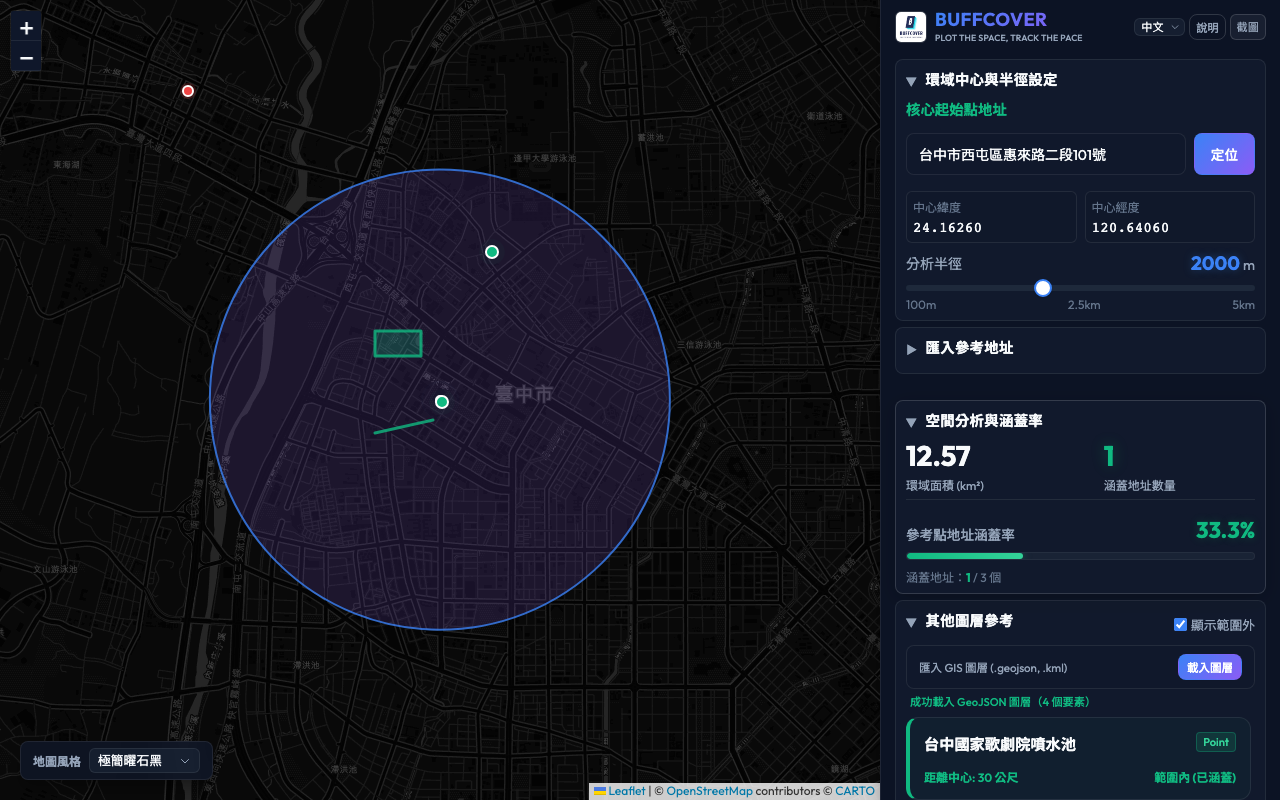
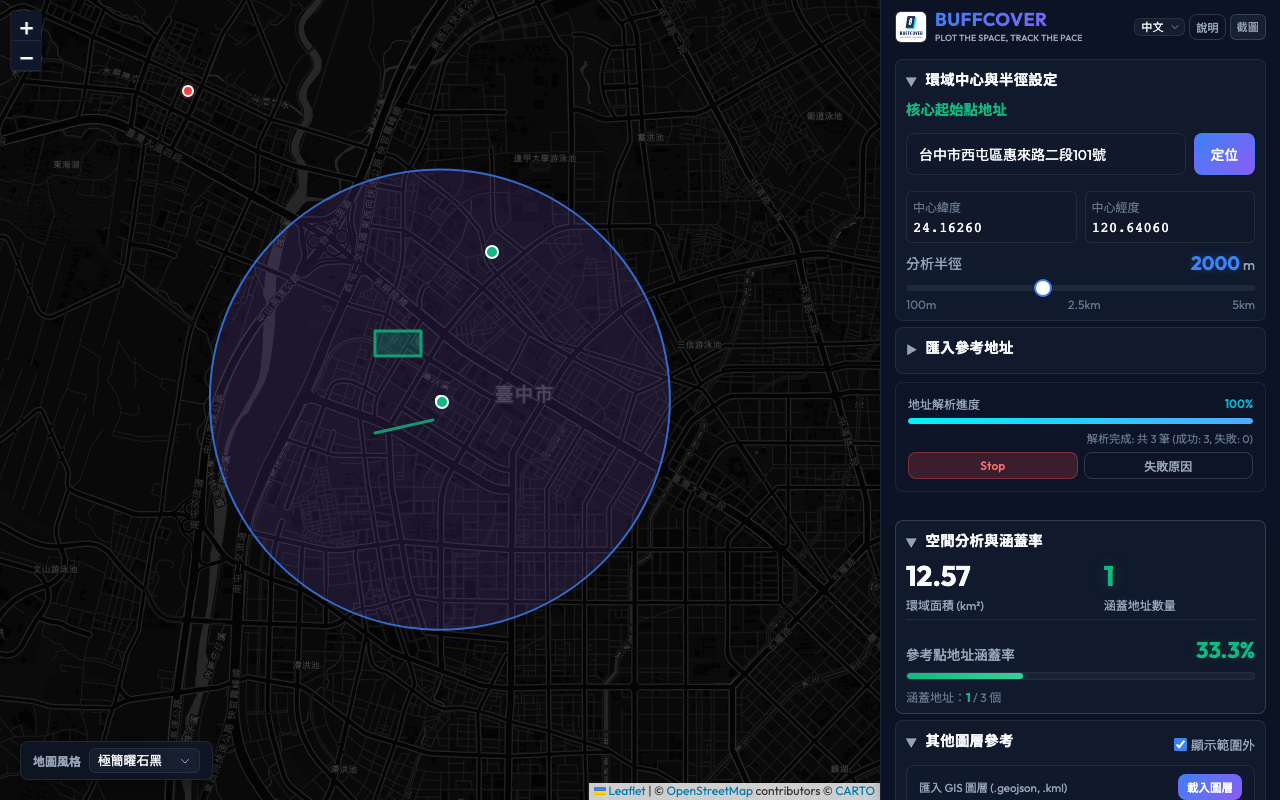
Update

diff --git a/index.html b/index.html
@@ -18,7 +18,7 @@
     <script src="https://cdn.jsdelivr.net/npm/html2canvas@1.4.1/dist/html2canvas.min.js"></script>
     
     <!-- 自訂 CSS -->
-    <link rel="stylesheet" href="./assets/style.css">
+    <link rel="stylesheet" href="./assets/css/style.css">
     
     <!-- 引入 TGOS MAP API (Lite) -->
     <script type="text/javascript" src="https://api.tgos.tw/TGOS_API/tgos?ver=2&AppID=x+JLVSx85Lk=&APIKey=in8W74q0ogpcfW/STwicK8D5QwCdddJf05/7nb+OtDh8R99YN3T0LurV4xato3TpL/fOfylvJ9Wv/khZEsXEWxsBmg+GEj4AuokiNXCh14Rei21U5GtJpIkO++Mq3AguFK/ISDEWn4hMzqgrkxNe1Q==" charset="utf-8"></script>
@@ -48,7 +48,7 @@
                 <div class="brand" style="display: flex; width: 100%; align-items: center; justify-content: space-between; gap: 6px;">
                     <div class="logo-group" style="display: flex; align-items: center; gap: 8px;">
                         <!-- 產品 Logo 圖片 -->
-                        <img src="./assets/Buffcover.jpg" alt="BuffCover Logo" style="width: 32px; height: 32px; border-radius: 6px; object-fit: cover; border: 1.5px solid rgba(255, 255, 255, 0.15);">
+                        <img src="./assets/images/Buffcover.jpg" alt="BuffCover Logo" style="width: 32px; height: 32px; border-radius: 6px; object-fit: cover; border: 1.5px solid rgba(255, 255, 255, 0.15);">
                         <div class="logo-text-group" style="display: flex; flex-direction: column;">
                             <span class="brand-text" data-i18n="brand_title" style="font-size: 1.15rem; font-weight: 800; line-height: 1.1; letter-spacing: 0.02em;">BuffCover</span>
                             <span class="slogan-text" style="font-size: 0.55rem; color: var(--text-secondary); letter-spacing: 0.02em; margin-top: 2px; font-weight: 500; text-transform: uppercase;">Plot the space, track the pace</span>
@@ -145,22 +145,23 @@
                         </div>
                     </details>
                     
-                    <!-- 地址解析佇列進度條 -->
-                    <div id="parse-progress-container" class="parse-progress-container" style="margin-top: 8px; display: none;">
-                        <div class="progress-info-row">
-                            <span class="progress-label" data-i18n="progress_bar_title">地址解析進度</span>
-                            <span id="parse-progress-val" class="progress-val">0%</span>
-                        </div>
-                        <div class="progress-bar-bg">
-                            <div id="parse-progress-fill" class="progress-bar-fill-cyan" style="width: 0%"></div>
-                        </div>
-                        <div id="parse-progress-detail" class="progress-detail"></div>
-                        <div class="progress-action-row" style="display: flex; gap: 6px; margin-top: 6px;">
-                            <button id="stop-parse-btn" class="secondary-btn" style="flex: 1; margin: 0; padding: 4px 6px; font-size: 0.75rem; background: rgba(239, 68, 68, 0.2); border-color: rgba(239, 68, 68, 0.4); color: #F87171;">Stop</button>
-                            <button id="fail-reason-btn" class="outline-btn" data-i18n="fail_reason_btn" style="flex: 1; margin: 0; padding: 4px 6px; font-size: 0.75rem;">失敗原因</button>
-                        </div>
-                    </div>
                 </details>
+                
+                <!-- 地址解析佇列進度條 -->
+                <div id="parse-progress-container" class="parse-progress-container" style="margin-top: 8px; margin-bottom: 8px; display: none;">
+                    <div class="progress-info-row">
+                        <span class="progress-label" data-i18n="progress_bar_title">地址解析進度</span>
+                        <span id="parse-progress-val" class="progress-val">0%</span>
+                    </div>
+                    <div class="progress-bar-bg">
+                        <div id="parse-progress-fill" class="progress-bar-fill-cyan" style="width: 0%"></div>
+                    </div>
+                    <div id="parse-progress-detail" class="progress-detail"></div>
+                    <div class="progress-action-row" style="display: flex; gap: 6px; margin-top: 6px;">
+                        <button id="stop-parse-btn" class="secondary-btn" style="flex: 1; margin: 0; padding: 4px 6px; font-size: 0.75rem; background: rgba(239, 68, 68, 0.2); border-color: rgba(239, 68, 68, 0.4); color: #F87171;">Stop</button>
+                        <button id="fail-reason-btn" class="outline-btn" data-i18n="fail_reason_btn" style="flex: 1; margin: 0; padding: 4px 6px; font-size: 0.75rem;">失敗原因</button>
+                    </div>
+                </div>
             </section>
             
             <!-- 統計摘要與涵蓋率 -->
@@ -348,6 +349,6 @@
     <script src="https://cdn.jsdelivr.net/npm/leaflet@1.9.4/dist/leaflet.js"></script>
     
     <!-- 自訂 JS -->
-    <script type="module" src="./assets/app.js"></script>
+    <script type="module" src="./assets/js/app.js"></script>
 </body>
 </html>

diff --git a/README.md b/README.md
@@ -37,16 +37,19 @@ BuffCover/
 ├── scripts/
 │   └── screenshot.py      # 自動化測試與網頁截圖腳本 (基於 Playwright)
 └── assets/                # 前端靜態資源目錄
-    ├── Buffcover.jpg      # 複製之 Logo 圖片 (供前端直接引用)
     ├── index.html         # 網頁結構檔案 (引入 Leaflet CDN 與前端模組)
-    ├── style.css          # CSS 樣式表 (包含發光動畫、自訂折疊箭頭與翡翠綠標籤)
-    ├── app.js             # 前端控制主邏輯 (處理 DOM 事件與流程控制)
-    ├── config.js          # 全域配置常數 (預設座標與地標清單)
-    ├── storage.js         # 本地 localStorage 快取管理 (記住環域半徑與中心點)
-    ├── parser.js          # Markdown 檔案解析器 (正規表達式地址智慧提取)
-    ├── api.js             # 後端 API 與前端 Fallback 退化定位模組
-    ├── map.js             # Leaflet 地圖操作與向量要素 (GeoJSON, KML) 渲染模組
-    └── geocodingdispatcher.js # 核心調度器 (IndexedDB 雙層快取與併發 3 限制)
+    ├── css/               # 樣式表目錄
+    │   └── style.css      # CSS 樣式表 (包含發光動畫、自訂折疊箭頭與翡翠綠標籤)
+    ├── images/            # 圖片資源目錄
+    │   └── Buffcover.jpg  # 複製之 Logo 圖片 (供前端直接引用)
+    └── js/                # JavaScript 程式碼目錄
+        ├── app.js         # 前端控制主邏輯 (處理 DOM 事件與流程控制)
+        ├── config.js      # 全域配置常數 (預設座標與地標清單)
+        ├── storage.js     # 本地 localStorage 快取管理 (記住環域半徑與中心點)
+        ├── parser.js      # Markdown 檔案解析器 (正規表達式地址智慧提取)
+        ├── api.js         # 後端 API 與前端 Fallback 退化定位模組
+        ├── map.js         # Leaflet 地圖操作與向量要素 (GeoJSON, KML) 渲染模組
+        └── geocodingdispatcher.js # 核心調度器 (IndexedDB 雙層快取與併發 3 限制)
 ```
 
 ### 4. 核心功能特點
@@ -93,16 +96,19 @@ BuffCover/
 ├── scripts/
 │   └── screenshot.py      # E2E Playwright test script
 └── assets/                # Static assets directory
-    ├── Buffcover.jpg      # Copied logo image for frontend loading
     ├── index.html         # Main page HTML structures
-    ├── style.css          # CSS styles (animations, custom details arrows)
-    ├── app.js             # Main frontend app controller
-    ├── config.js          # App configurations (defaults and backup landmarks)
-    ├── storage.js         # LocalStorage cookies helper
-    ├── parser.js          # Markdown list/table address text parser
-    ├── api.js             # API communications wrapper
-    ├── map.js             # Leaflet operations and GeoJSON/KML rendering
-    └── geocodingdispatcher.js # Concurrent geocoding pool & IndexedDB cache
+    ├── css/               # CSS stylesheet directory
+    │   └── style.css      # CSS styles (animations, custom details arrows)
+    ├── images/            # Image assets directory
+    │   └── Buffcover.jpg  # Copied logo image for frontend loading
+    └── js/                # JavaScript source files directory
+        ├── app.js         # Main frontend app controller
+        ├── config.js      # App configurations (defaults and backup landmarks)
+        ├── storage.js     # LocalStorage cookies helper
+        ├── parser.js      # Markdown list/table address text parser
+        ├── api.js         # API communications wrapper
+        ├── map.js         # Leaflet operations and GeoJSON/KML rendering
+        └── geocodingdispatcher.js # Concurrent geocoding pool & IndexedDB cache
 ```
 
 ### 4. Core Capabilities
@@ -149,16 +155,19 @@ BuffCover/
 ├── scripts/
 │   └── screenshot.py      # E2Eテストおよび自動スクリーンショット (Playwright)
 └── assets/                # フロントエンド静的アセット
-    ├── Buffcover.jpg      # 表示用ロゴ画像
     ├── index.html         # メインHTML
-    ├── style.css          # CSSスタイルシート (アニメーション、アコーディオン矢印)
-    ├── app.js             # アプリのメイン制御ロジック
-    ├── config.js          # 設定値 (既定座標およびバックアップ目標)
-    ├── storage.js         # ローカルストレージおよびクッキー管理
-    ├── parser.js          # Markdown・テキスト住所自動抽出パーサー
-    ├── api.js             # バックエンドAPI接続およびフォールバック制御
-    ├── map.js             # Leaflet地図操作およびGeoJSON/KMLデータ描画
-    └── geocodingdispatcher.js # 并行ジオコーディング制御とIndexedDB
+    ├── css/               # CSSスタイルシートディレクトリ
+    │   └── style.css      # CSSスタイルシート (アニメーション、アコーディオン矢印)
+    ├── images/            # 画像アセットディレクトリ
+    │   └── Buffcover.jpg  # 表示用ロゴ画像
+    └── js/                # JavaScriptコードディレクトリ
+        ├── app.js         # アプリのメイン制御ロジック
+        ├── config.js      # 設定値 (既定座標およびバックアップ目標)
+        ├── storage.js     # ローカルストレージおよびクッキー管理
+        ├── parser.js      # Markdown・テキスト住所自動抽出パーサー
+        ├── api.js         # バックエンドAPI接続およびフォールバック制御
+        ├── map.js         # Leaflet地図操作およびGeoJSON/KMLデータ描画
+        └── geocodingdispatcher.js # 并行ジオコーディング制御とIndexedDB
 ```
 
 ### 4. 核心機能
